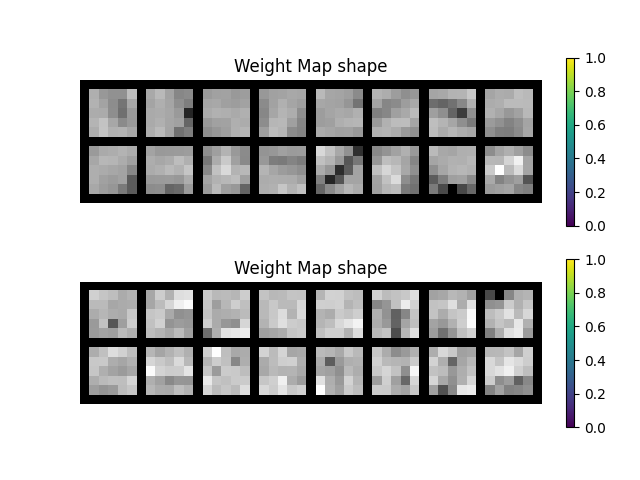
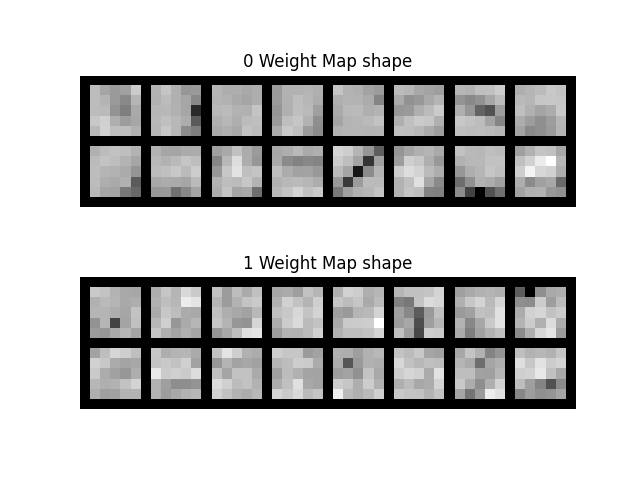
modify PoissonEncoding and visualizing

diff --git a/utils/adversarial_image.py b/utils/adversarial_image.py
@@ -1,11 +1,7 @@
 import torch as th
 import torch.nn.functional as F
 import matplotlib.pyplot as plt
-import torch.nn as nn
-from torchvision import transforms
 from .spikingjelly.spikingjelly.activation_based import functional
-from .model import CNN, SNN
-
 
 def generate_adversial_image_fgsm(model, image, target, epsilon=0.05):
     """
@@ -100,11 +96,15 @@ def save_image(original_image, adversarial_image, filename, target):
     adversarial_image = adversarial_image.mean(1)
 
     r = random.randint(0, len(original_image) - 1)
-
     channel = original_image[r].shape[0]
     if channel == 1:
         original_image = original_image[r].squeeze(0).detach().cpu().numpy()
         adversarial_image = adversarial_image[r].squeeze(0).detach().cpu().numpy()
+        c = "gray"
+        label = list(range(0, 10))
+    elif channel == 28:
+        original_image = original_image[r].detach().cpu().numpy()
+        adversarial_image = adversarial_image[r].detach().cpu().numpy()
         c = "gray"
         label = list(range(0, 10))
     else:
@@ -127,76 +127,3 @@ def save_image(original_image, adversarial_image, filename, target):
     plt.tight_layout()
     plt.savefig(filename)
     plt.close()
-
-
-def compute_norm_differences(orig: th.Tensor, adv: th.Tensor):
-    """
-    :param orig: origin image (B, C, H, W)
-    :param adv: adv example (B, C, H, W)
-    :return: (mean_l2, mean_linf)
-    """
-    # norm calculate
-    diff = adv - orig
-    # L2 norm (each sample)
-    l2 = diff.view(diff.size(0), -1).norm(p=2, dim=1)  # (B,)
-    # Linf norm (each sample)
-    linf = diff.view(diff.size(0), -1).norm(p=float("inf"), dim=1)  # (B,)
-
-    # batch all avg
-    return l2.mean().item(), linf.mean().item()
-
-
-def compute_confidence(model, images: th.Tensor, labels: th.Tensor):
-    """
-    :param model: net
-    :param images: input image (B, C, H, W)
-    :param labels: label (B,)
-    :return: avg confidence
-    """
-    with th.no_grad():
-        if images.dim() == 4:
-            logits = model(images)
-        else:
-            logits = model(images).mean(0)
-        probs = F.softmax(logits, dim=1)
-        print(probs)
-        conf = probs[th.arange(len(labels)), labels]
-    return conf.mean().item()
-
-
-def compute_attack_success_rate(model, adv: th.Tensor, label: th.Tensor):
-    """
-    :param model: net
-    :param adv: adv example (B, C, H, W)
-    :param label: origin label (B,)
-    :return: adv success (0.0 ~ 1.0)
-    """
-    with th.no_grad():
-        if adv.dim() == 4:
-            preds = model(adv).argmax(dim=1)
-        else:
-            preds = model(adv).mean(0).argmax(dim=1)
-    #
-    incorrect = (preds != label).sum().item()
-    return incorrect / len(label)
-
-
-def evaluate_adversarial(model, image, adversarial_image, label, epsilon=0.1):
-    """
-    :param model: net
-    :param image : origin image
-    :param adversarial_image : adv example
-    :param label : origin label
-    :param epsilon: FGSM intensity
-    """
-    # 1)
-    conf_orig = compute_confidence(model, image, label)
-    conf_adv = compute_confidence(model, adversarial_image, label)
-
-    # 2)
-    l2, linf = compute_norm_differences(image, adversarial_image)
-
-    # 3)
-    success_rate = compute_attack_success_rate(model, adversarial_image, label)
-
-    return l2, linf, conf_orig, conf_adv, success_rate

diff --git a/visualizing.py b/visualizing.py
@@ -16,9 +16,6 @@ def draw_weight_map(fig, axe, weight_map):
     # Turn off the axis for the given axes object to make the visualization cleaner
     axe.axis("off")
     
-    # Set the title of the axes to indicate the content being visualized
-    axe.set_title("Weight Map shape")
-    
     axe.imshow(weight_map, cmap="gray")
     
     
@@ -38,7 +35,7 @@ def initialize_low_variance(conv_layer: nn.Conv2d, threthold : float = 0.1) -> t
 if __name__ == "__main__":
     # Create an instance of the SNN model with T=10 and move it to the GPU
     net = SNN(T=10).to(th.device("cuda:0"))
-    net.load_state_dict(th.load(f"./saved/stdp_MNIST.pt"))
+    net.load_state_dict(th.load(f"./saved/snn_MNIST.pt"))
     
     # Initialize an empty list to store Conv2D modules
     conv_list = []
@@ -51,7 +48,7 @@ if __name__ == "__main__":
     # Create a figure and two subplots for visualizing weight maps
     fig , axes = plt.subplots(len(conv_list), 1)
     
-    for axe, module in zip(axes, conv_list):
+    for idx, (axe, module) in enumerate(zip(axes, conv_list)):
         if isinstance(module, nn.Conv2d):
             # Extract the weights of the Conv2D layer and clone them to CPU
             weight = module.weight.detach().cpu().clone()[:,:3]        
@@ -67,11 +64,13 @@ if __name__ == "__main__":
             grid = grid.permute(1, 2, 0)
             
             # Draw the weight map on the current axes
+             # Set the title of the axes to indicate the content being visualized
+            axe.set_title(f"{idx} Weight Map shape")
             draw_weight_map(fig, axe, grid)
             
     # Save the figure containing the weight maps to a file
-    fig.savefig(f"./images/weight_map/weight_map_stdp.png")
-    print("saved weight map to ./images/weight_map/weight_map_stdp.png")
+    fig.savefig(f"./images/weight_map/weight_map_snn.png")
+    print("saved weight map to ./images/weight_map/weight_map_snn.png")
     
     fig, axes = plt.subplots(len(conv_list), 1)
 
@@ -97,5 +96,5 @@ if __name__ == "__main__":
             draw_weight_map(fig, axe, grid)
             
     # Save the figure containing the weight maps to a file
-    fig.savefig(f"./images/weight_map/weight_map_stdp_scailing.png")
-    print("saved weight map to ./images/weight_map/weight_map_stdp_scailing.png")
+    fig.savefig(f"./images/weight_map/weight_map_snn_scailing.png")
+    print("saved weight map to ./images/weight_map/weight_map_snn_scailing.png")

diff --git a/main.py b/main.py
@@ -60,16 +60,19 @@ def manual_seed(seed: int = 42) -> None:
 
 
 class PoissonEncoder:
-    def __init__(self, T: int):
+    def __init__(self, use_poisson: bool = True, T: int = 10):
         self.T = T
-
+        self.use_poisson = use_poisson
     def __call__(self, image: th.Tensor) -> th.Tensor:
         """
         image: (1, 28, 28), float tensor in [0,1]
         return: (T, 1, 28, 28), binary spikes
         """
         # Poisson spike sampling across T timesteps
-        return (th.rand(self.T, *image.shape) < image).float()
+        if self.use_poisson: 
+            return (th.rand(self.T, *image.shape) < image).float()
+        else: 
+            return image.float()
 
 
 if __name__ == "__main__":
@@ -78,8 +81,8 @@ if __name__ == "__main__":
     manual_seed(args.seed)
 
     if args.data_set == "MNIST":
-        transform = transforms.Compose([transforms.ToTensor(), PoissonEncoder(T=args.timestep)])
-
+        transform = transforms.Compose([transforms.ToTensor(), PoissonEncoder(use_poisson= True if args.method != 'CNN' else False,T=args.timestep)])
+        
         MNIST_train = MNIST(root="./data", download=True, train=True, transform=transform)
         MNIST_test = MNIST(root="./data", download=True, train=False, transform=transform)
 
@@ -93,7 +96,7 @@ if __name__ == "__main__":
                 transforms.RandomCrop(32, padding=2),
                 transforms.ToTensor(),
                 transforms.Normalize((0.4914, 0.4822, 0.4465), (0.2470, 0.2435, 0.2616)), 
-                PoissonEncoder(T=args.timestep),
+                PoissonEncoder(use_poisson= True if args.method != 'CNN' else False,T=args.timestep),
             ]
         )
 
@@ -101,7 +104,7 @@ if __name__ == "__main__":
             [
                 transforms.ToTensor(),
                 transforms.Normalize((0.4914, 0.4822, 0.4465), (0.2470, 0.2435, 0.2616)),  
-                PoissonEncoder(T=args.timestep),
+                PoissonEncoder(use_poisson= True if args.net != 'CNN' else False,T=args.timestep),
             ]
         )
 

diff --git a/utils/train.py b/utils/train.py
@@ -20,7 +20,6 @@ def train_model(config: Config, mode=None) -> Tuple[float, float]:
     # Iterate over the training data
     for i, (data, target) in tqdm(enumerate(config.train_loader), desc="Training", total=len(config.train_loader)):
         data, target = data.to(config.device), target.to(config.device)  # Move data to the configured device
-
         config.optimizer.zero_grad()  # Reset gradients for the optimizer
         if config.parameters_stdp:
             config.optimizer_stdp.zero_grad()  # Reset gradients for STDP optimizer if applicable
@@ -129,6 +128,7 @@ def evaluate_model(config: Config) -> Tuple[float, float, (float|None)]:
     for i in config.stdp_learners:
         i.enable()  # Re-enable STDP learners after evaluation
     attack_success_rate = (attack_successes / length) * 100 if config.attack else None
+    
     # Return average loss, accuracy, and attack success rate
     return total_loss / length, (total_acc / length) * 100, attack_success_rate
 

diff --git a/utils/model.py b/utils/model.py
@@ -154,7 +154,7 @@ class SpikingResNet18(nn.Module):
         self.in_channels = 64
         self.init_layer = nn.Sequential(
             layer.Conv2d(3, 64, kernel_size=3, stride=1, padding=1, bias=False),
-            neuron.LIFNode(tau=2.0, surrogate_function=neuron.surrogate.Sigmoid())
+            neuron.LIFNode(tau=2.0, surrogate_function=neuron.surrogate.Atan())
         )
         self.layer1 = self._make_layer(64, 2, stride=1)
         self.layer2 = self._make_layer(128, 2, stride=2)
